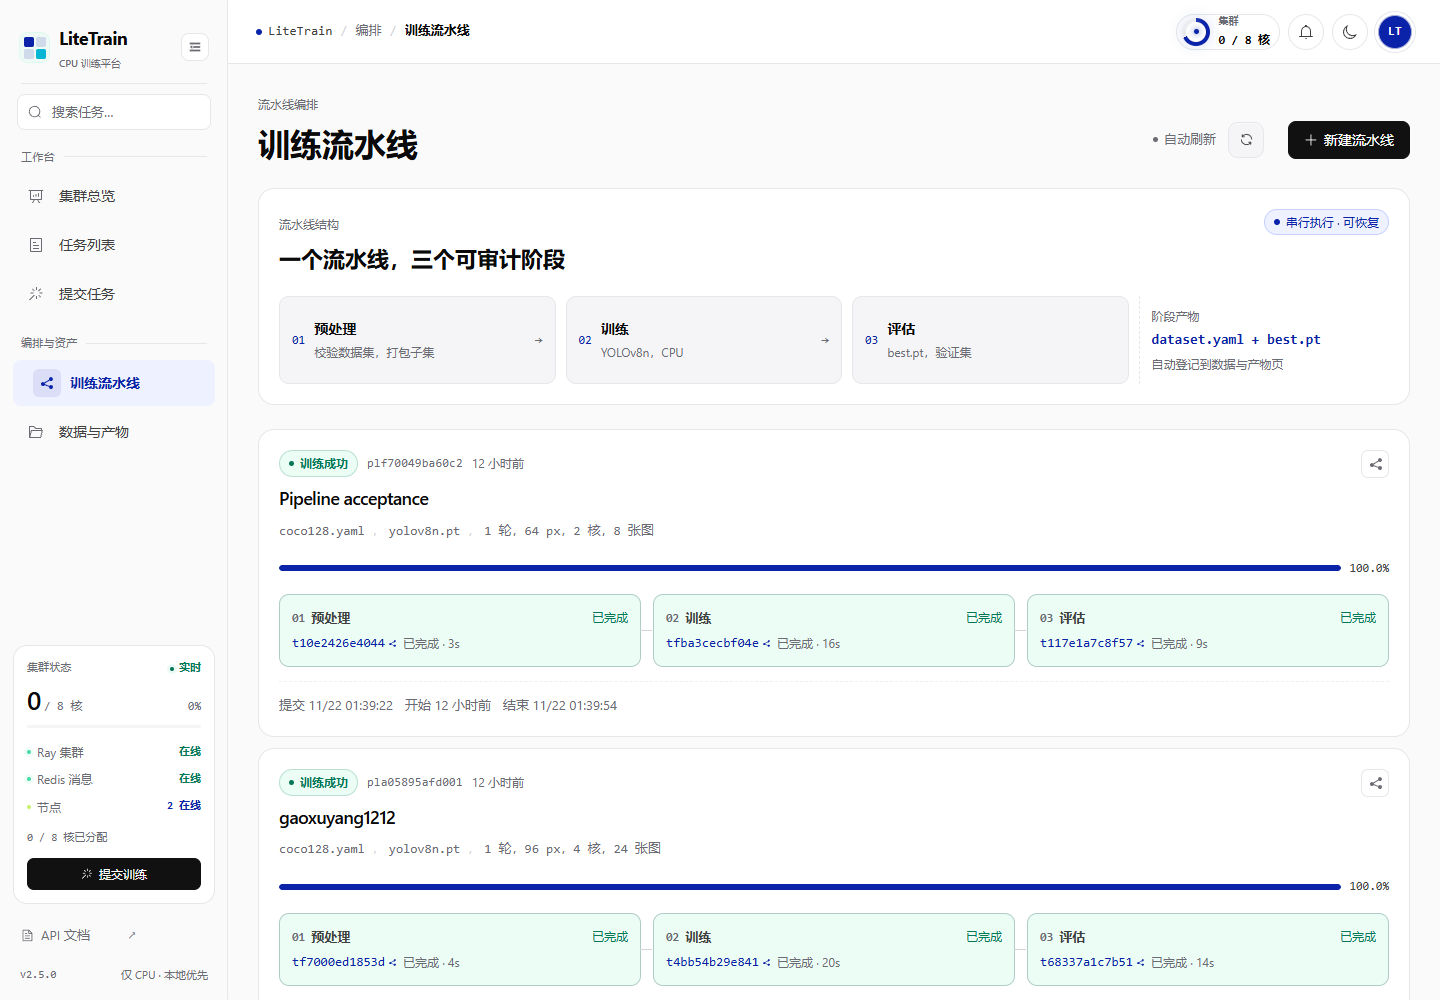
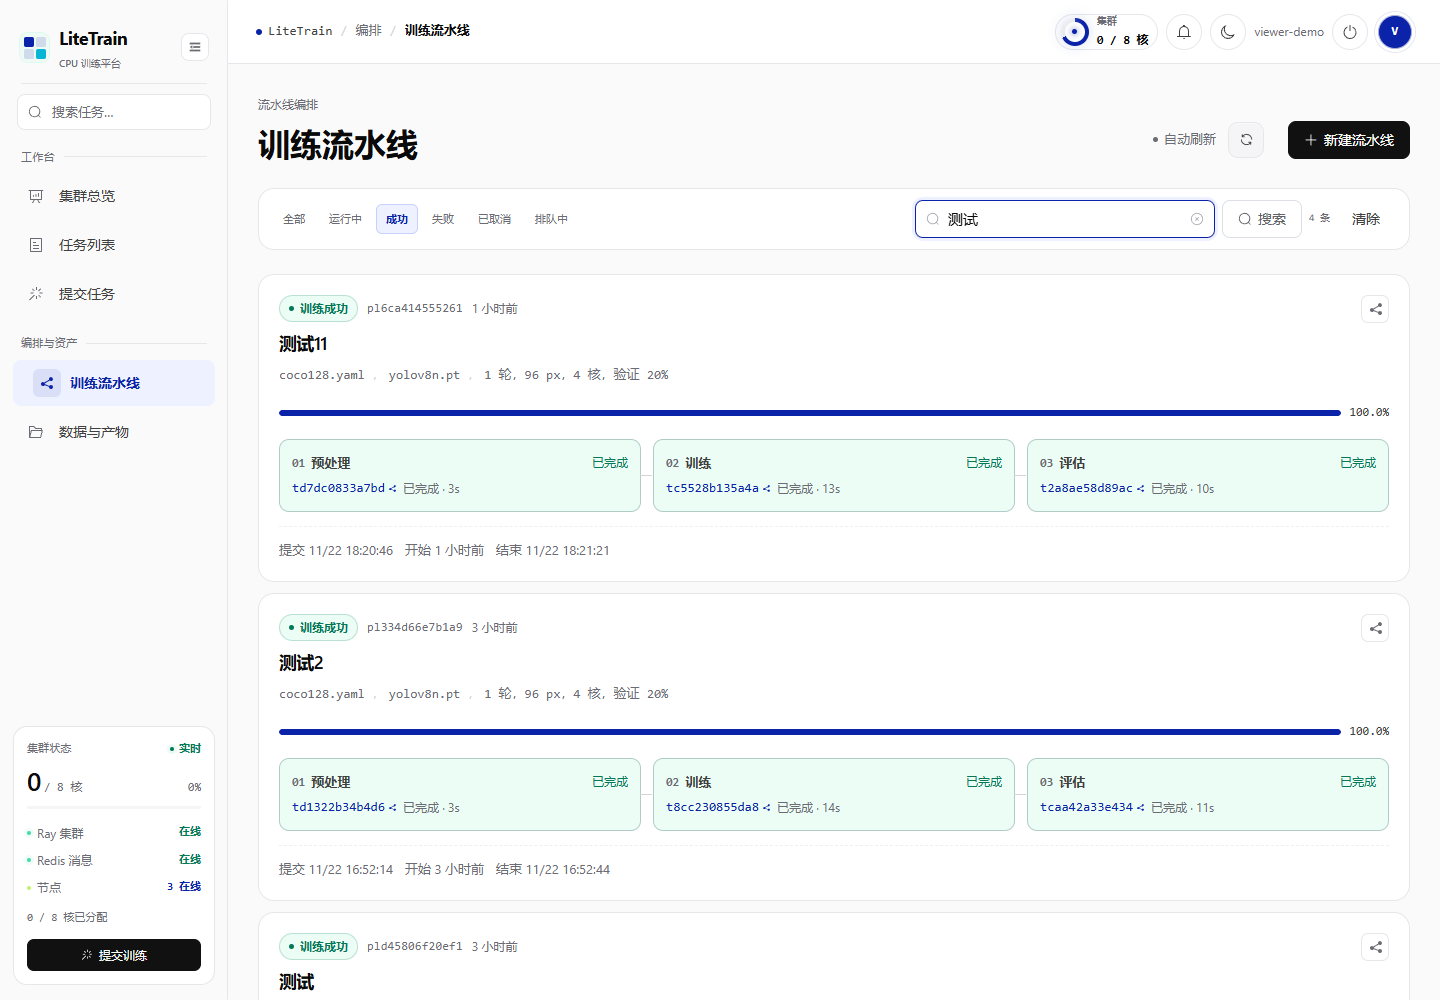
feat(pipelines): add status filters and search

diff --git a/frontend/src/views/PipelinesView.vue b/frontend/src/views/PipelinesView.vue
@@ -6,6 +6,7 @@ import {
   Download,
   Plus,
   Refresh,
+  Search,
   Share,
   Timer,
 } from '@element-plus/icons-vue'
@@ -28,6 +29,9 @@ const pipelines = ref<Pipeline[]>([])
 const total = ref(0)
 const page = ref(1)
 const pageSize = ref(10)
+const pipelineFilter = ref<'all' | 'pending' | 'running' | 'succeeded' | 'failed' | 'cancelled'>('all')
+const searchInput = ref('')
+const appliedSearch = ref('')
 const loading = ref(true)
 const refreshing = ref(false)
 const error = ref<string | null>(null)
@@ -121,6 +125,39 @@ const stageDefinitions = [
   { key: 'evaluate', label: '评估', hint: '阈值、类别 AP、延迟', index: '03' },
 ]
 
+const pipelineFilters = [
+  { value: 'all', label: '全部' },
+  { value: 'running', label: '运行中' },
+  { value: 'succeeded', label: '成功' },
+  { value: 'failed', label: '失败' },
+  { value: 'cancelled', label: '已取消' },
+  { value: 'pending', label: '排队中' },
+] as const
+
+const hasFilters = computed(
+  () => pipelineFilter.value !== 'all' || appliedSearch.value.length > 0,
+)
+
+function selectPipelineFilter(value: typeof pipelineFilter.value) {
+  pipelineFilter.value = value
+  page.value = 1
+  load(true)
+}
+
+function applyPipelineSearch() {
+  appliedSearch.value = searchInput.value.trim()
+  page.value = 1
+  load(true)
+}
+
+function clearPipelineFilters() {
+  pipelineFilter.value = 'all'
+  searchInput.value = ''
+  appliedSearch.value = ''
+  page.value = 1
+  load(true)
+}
+
 const stageMeta: Record<string, { label: string; tone: string }> = {
   waiting: { label: '等待前序', tone: 'waiting' },
   pending: { label: '排队中', tone: 'pending' },
@@ -164,7 +201,10 @@ async function load(silent = false) {
   if (!silent) loading.value = true
   refreshing.value = true
   try {
-    const data = await api.listPipelines(page.value, pageSize.value)
+    const data = await api.listPipelines(page.value, pageSize.value, {
+      status: pipelineFilter.value === 'all' ? undefined : pipelineFilter.value,
+      query: appliedSearch.value || undefined,
+    })
     pipelines.value = data.items
     total.value = data.total
     error.value = null
@@ -369,28 +409,32 @@ onBeforeUnmount(() => {
 
     <el-alert v-if="error" :title="error" type="error" show-icon :closable="false" />
 
-    <section class="panel pipeline-guide">
-      <div class="guide-head">
-        <div>
-          <span class="soft-label">流水线结构</span>
-          <h2>一个流水线，三个可审计阶段</h2>
-        </div>
-        <span class="tag-soft accent"><span class="dot"></span>串行执行 · 可恢复</span>
+    <section class="panel pipeline-toolbar">
+      <div class="pipeline-filter-chips">
+        <button
+          v-for="filter in pipelineFilters"
+          :key="filter.value"
+          type="button"
+          class="pipeline-filter"
+          :class="{ active: pipelineFilter === filter.value }"
+          @click="selectPipelineFilter(filter.value)"
+        >
+          {{ filter.label }}
+        </button>
       </div>
-      <div class="guide-stages">
-        <div v-for="(stage, index) in stageDefinitions" :key="stage.key" class="guide-stage">
-          <span class="guide-index mono">{{ stage.index }}</span>
-          <div>
-            <strong>{{ stage.label }}</strong>
-            <span>{{ stage.hint }}</span>
-          </div>
-          <span v-if="index < stageDefinitions.length - 1" class="guide-arrow">→</span>
-        </div>
-        <div class="guide-artifacts">
-          <span class="soft-label">阶段产物</span>
-          <strong>dataset.yaml + best.pt</strong>
-          <span>自动登记到数据与产物页</span>
-        </div>
+      <div class="pipeline-search-wrap">
+        <el-input
+          v-model="searchInput"
+          class="pipeline-search"
+          clearable
+          :prefix-icon="Search"
+          placeholder="搜索名称 / ID / 数据集 / 模型"
+          @keyup.enter="applyPipelineSearch"
+          @clear="applyPipelineSearch"
+        />
+        <el-button :icon="Search" @click="applyPipelineSearch">搜索</el-button>
+        <span class="pipeline-result-count mono">{{ total }} 条</span>
+        <el-button v-if="hasFilters" text @click="clearPipelineFilters">清除</el-button>
       </div>
     </section>
 
@@ -401,9 +445,13 @@ onBeforeUnmount(() => {
     <div v-else-if="pipelines.length === 0" class="panel empty-pipeline">
       <div class="empty-state">
         <span class="empty-icon"><el-icon><Share /></el-icon></span>
-        <strong>还没有流水线</strong>
-        <span>用一个串行流水线验证预处理、训练和评估的自动衔接，以及阶段产物的下载。</span>
-        <el-button type="primary" plain size="small" @click="openCreate">创建第一条流水线</el-button>
+        <strong>{{ hasFilters ? '没有匹配的流水线' : '还没有流水线' }}</strong>
+        <span v-if="hasFilters">换个状态或关键词试试，也可以清除筛选。</span>
+        <span v-else>用一个串行流水线验证预处理、训练和评估的自动衔接，以及阶段产物的下载。</span>
+        <el-button v-if="hasFilters" type="primary" plain size="small" @click="clearPipelineFilters">
+          清除筛选
+        </el-button>
+        <el-button v-else type="primary" plain size="small" @click="openCreate">创建第一条流水线</el-button>
       </div>
     </div>
 
@@ -781,6 +829,77 @@ onBeforeUnmount(() => {
 .refresh-dot.live {
   background: var(--accent);
   animation: soft-pulse 2s ease-out infinite;
+}
+
+.pipeline-toolbar {
+  display: flex;
+  align-items: center;
+  justify-content: space-between;
+  gap: 14px;
+  flex-wrap: wrap;
+  padding: 11px 14px;
+}
+
+.pipeline-filter-chips {
+  display: flex;
+  align-items: center;
+  gap: 4px;
+  flex-wrap: wrap;
+}
+
+.pipeline-filter {
+  padding: 5px 9px;
+  border: 1px solid transparent;
+  border-radius: 6px;
+  background: transparent;
+  color: var(--text-muted);
+  cursor: pointer;
+  font-size: 11px;
+}
+
+.pipeline-filter:hover {
+  background: var(--panel-soft);
+  color: var(--text-secondary);
+}
+
+.pipeline-filter.active {
+  border-color: var(--accent-line);
+  background: var(--accent-soft);
+  color: var(--accent);
+  font-weight: 600;
+}
+
+.pipeline-search-wrap {
+  display: flex;
+  align-items: center;
+  gap: 7px;
+  flex-wrap: wrap;
+}
+
+.pipeline-search {
+  width: 300px;
+}
+
+.pipeline-result-count {
+  color: var(--text-muted);
+  font-size: 10px;
+  white-space: nowrap;
+}
+
+@media (max-width: 900px) {
+  .pipeline-toolbar {
+    align-items: stretch;
+  }
+
+  .pipeline-search-wrap {
+    width: 100%;
+  }
+
+  .pipeline-search {
+    flex: 1;
+    width: auto;
+    min-width: 170px;
+  }
 }
 
 .pipeline-guide {

diff --git a/frontend/src/api/client.ts b/frontend/src/api/client.ts
@@ -278,9 +278,13 @@ export const api = {
     return data
   },
 
-  async listPipelines(page = 1, pageSize = 10): Promise<PipelineListResponse> {
+  async listPipelines(
+    page = 1,
+    pageSize = 10,
+    filters: { status?: string; query?: string } = {},
+  ): Promise<PipelineListResponse> {
     const { data } = await http.get<PipelineListResponse>('/pipelines', {
-      params: { page, page_size: pageSize },
+      params: { page, page_size: pageSize, status: filters.status, query: filters.query },
     })
     return data
   },

diff --git a/backend/app/services/pipelines.py b/backend/app/services/pipelines.py
@@ -15,7 +15,7 @@ from datetime import datetime
 from pathlib import Path
 from typing import Any
 
-from sqlalchemy import func, select
+from sqlalchemy import func, or_, select
 
 from app.config import Settings
 from app.database import Database, utcnow
@@ -791,15 +791,39 @@ class PipelineService:
                 raise PipelineNotFound(pipeline_id)
             return self._to_schema(session, pipeline, include_artifacts=True)
 
-    def list(self, page: int = 1, page_size: int = 10) -> PipelineListResponse:
+    def list(
+        self,
+        page: int = 1,
+        page_size: int = 10,
+        *,
+        status: str | None = None,
+        query: str | None = None,
+    ) -> PipelineListResponse:
         page = max(1, page)
         page_size = max(1, min(50, page_size))
+        conditions = []
+        if status and status != "all":
+            conditions.append(Pipeline.status == status)
+        needle = (query or "").strip()
+        if needle:
+            pattern = f"%{needle}%"
+            conditions.append(
+                or_(
+                    Pipeline.id.ilike(pattern),
+                    Pipeline.name.ilike(pattern),
+                    Pipeline.config_json.ilike(pattern),
+                )
+            )
         with self.db.session() as session:
-            from sqlalchemy import func
-
-            total = int(session.scalar(select(func.count(Pipeline.id))) or 0)
+            total = int(
+                session.scalar(
+                    select(func.count(Pipeline.id)).where(*conditions)
+                )
+                or 0
+            )
             rows = session.scalars(
                 select(Pipeline)
+                .where(*conditions)
                 .order_by(Pipeline.submitted_at.desc())
                 .offset((page - 1) * page_size)
                 .limit(page_size)

diff --git a/backend/tests/test_p2.py b/backend/tests/test_p2.py
@@ -593,6 +593,34 @@ def test_resume_pipeline_reconciles_completed_stage(client, ctx):
     assert current["stages"][2]["task"] is not None
 
 
+def test_pipeline_list_filters(client):
+    for name in ("filter alpha", "filter beta"):
+        response = client.post(
+            "/api/v1/pipelines",
+            json={
+                "name": name,
+                "source_dataset": "coco128.yaml",
+                "model": "yolov8n.pt",
+                "epochs": 1,
+                "imgsz": 64,
+                "batch_size": 1,
+                "cpu_cores": 2,
+                "max_runtime_seconds": 60,
+                "max_retries": 0,
+            },
+        )
+        assert response.status_code == 201, response.text
+    by_name = client.get("/api/v1/pipelines", params={"query": "filter alpha"}).json()
+    assert by_name["total"] == 1
+    assert by_name["items"][0]["name"] == "filter alpha"
+
+    by_dataset = client.get("/api/v1/pipelines", params={"query": "coco128"}).json()
+    assert by_dataset["total"] == 2
+
+    by_status = client.get("/api/v1/pipelines", params={"status": "running"}).json()
+    assert by_status["total"] == 0
+
+
 def test_pipeline_failure_stops_later_stages(client, ctx):
     created = client.post(
         "/api/v1/pipelines",

diff --git a/backend/app/api/pipelines.py b/backend/app/api/pipelines.py
@@ -31,9 +31,11 @@ def create_pipeline(payload: PipelineCreate, ctx: AppContext = Depends(get_ctx))
 def list_pipelines(
     page: int = Query(default=1, ge=1),
     page_size: int = Query(default=10, ge=1, le=50),
+    status: str | None = Query(default=None),
+    query: str | None = Query(default=None, max_length=120),
     ctx: AppContext = Depends(get_ctx),
 ) -> PipelineListResponse:
-    return ctx.pipelines.list(page=page, page_size=page_size)
+    return ctx.pipelines.list(page=page, page_size=page_size, status=status, query=query)
 
 
 @router.get("/{pipeline_id}", response_model=PipelineOut, summary="Pipeline detail with stages")

diff --git a/docs/README.md b/docs/README.md
@@ -2,13 +2,13 @@
 
 本项目采用 **SDD（Spec-Driven Development，规格驱动）+ TDD（Test-Driven Development，测试驱动）** 组织交付。三份核心文档构成 `需求 → 设计 → 测试` 的闭合追溯链。
 
-> 基线说明：以下核心 SDD/TDD 文档最初覆盖 42 项测试；随后新增模型权重导入、流水线预处理/评估、策略上限和流水线恢复等测试，当前仓库为 **50 项测试**。第 3 节保留最初的 42 项核心测试清单，新增用例以仓库实际测试文件为准。
+> 基线说明：以下核心 SDD/TDD 文档最初覆盖 42 项测试；随后新增模型权重导入、流水线预处理/评估、策略上限、流水线恢复和列表筛选等测试，当前仓库为 **51 项测试**。第 3 节保留最初的 42 项核心测试清单，新增用例以仓库实际测试文件为准。
 
 | 文档 | 定位 | 核心内容 |
 | --- | --- | --- |
 | [需求规格说明书](requirements-spec.md) | 唯一需求事实源 | FR/NFR 编号、Given/When/Then 验收准则、范围（P0/P1/P2）、需求-验收-测试-代码追溯矩阵 |
 | [技术实现设计文档](technical-design.md) | 唯一设计事实源 | 架构图、19 张表与状态机、调度/心跳/日志/指标/流水线/Webhook 机制、API 清单、ADR |
-| [TDD 测试规格与验收矩阵](tdd-test-spec.md) | 唯一测试事实源 | 红-绿-重构流程、50 项测试清单、需求→测试映射、命题验收基准映射、黑盒 E2E |
+| [TDD 测试规格与验收矩阵](tdd-test-spec.md) | 唯一测试事实源 | 红-绿-重构流程、核心 42 项测试清单 + 后续用例、需求→测试映射、命题验收基准映射、黑盒 E2E |
 | [核心代码导读](CODE_WALKTHROUGH.md) | 代码实现讲解 | 8 个关键文件、任务提交→调度→执行→日志→容错→P2 的真实代码走读与行号索引 |
 
 ## 专题文档

diff --git a/答辩讲稿.md b/答辩讲稿.md
@@ -509,7 +509,7 @@ pending → auditing → passed / warning / blocked / failed
 当前结果：
 
 ```text
-后端测试：50 passed
+后端测试：51 passed
 前端 typecheck：通过
 前端 build：通过
 CI：通过
@@ -691,7 +691,7 @@ worker 无论成功失败都会写 result.json，API 重启后可以恢复任务
 2. **核心**：任务状态机 + 资源账本 + 心跳恢复。
 3. **流水线**：预处理做去重/校验/切分，评估做验证集 mAP/类别 AP/延迟。
 4. **亮点**：重跑同任务保留历史；后台独立端口和权限；策略上限前后端一致。
-5. **证据**：真实 Ray 任务跑通，50 个后端测试，CI 通过。
+5. **证据**：真实 Ray 任务跑通，51 个后端测试，CI 通过。
 6. **边界**：多节点模拟、小样本评估，生产化还需要 PostgreSQL/真实集群/OIDC。
 
 ---

diff --git a/README.md b/README.md
@@ -885,7 +885,7 @@ cd backend
 ..\.venv\Scripts\python -m pytest
 ```
 
-结果：**50 passed**。测试覆盖 P0/P1 + P2：
+结果：**51 passed**。测试覆盖 P0/P1 + P2：
 
 - 创建、分页、状态筛选、ID/名称搜索；
 - 表单选项和命令预览；
